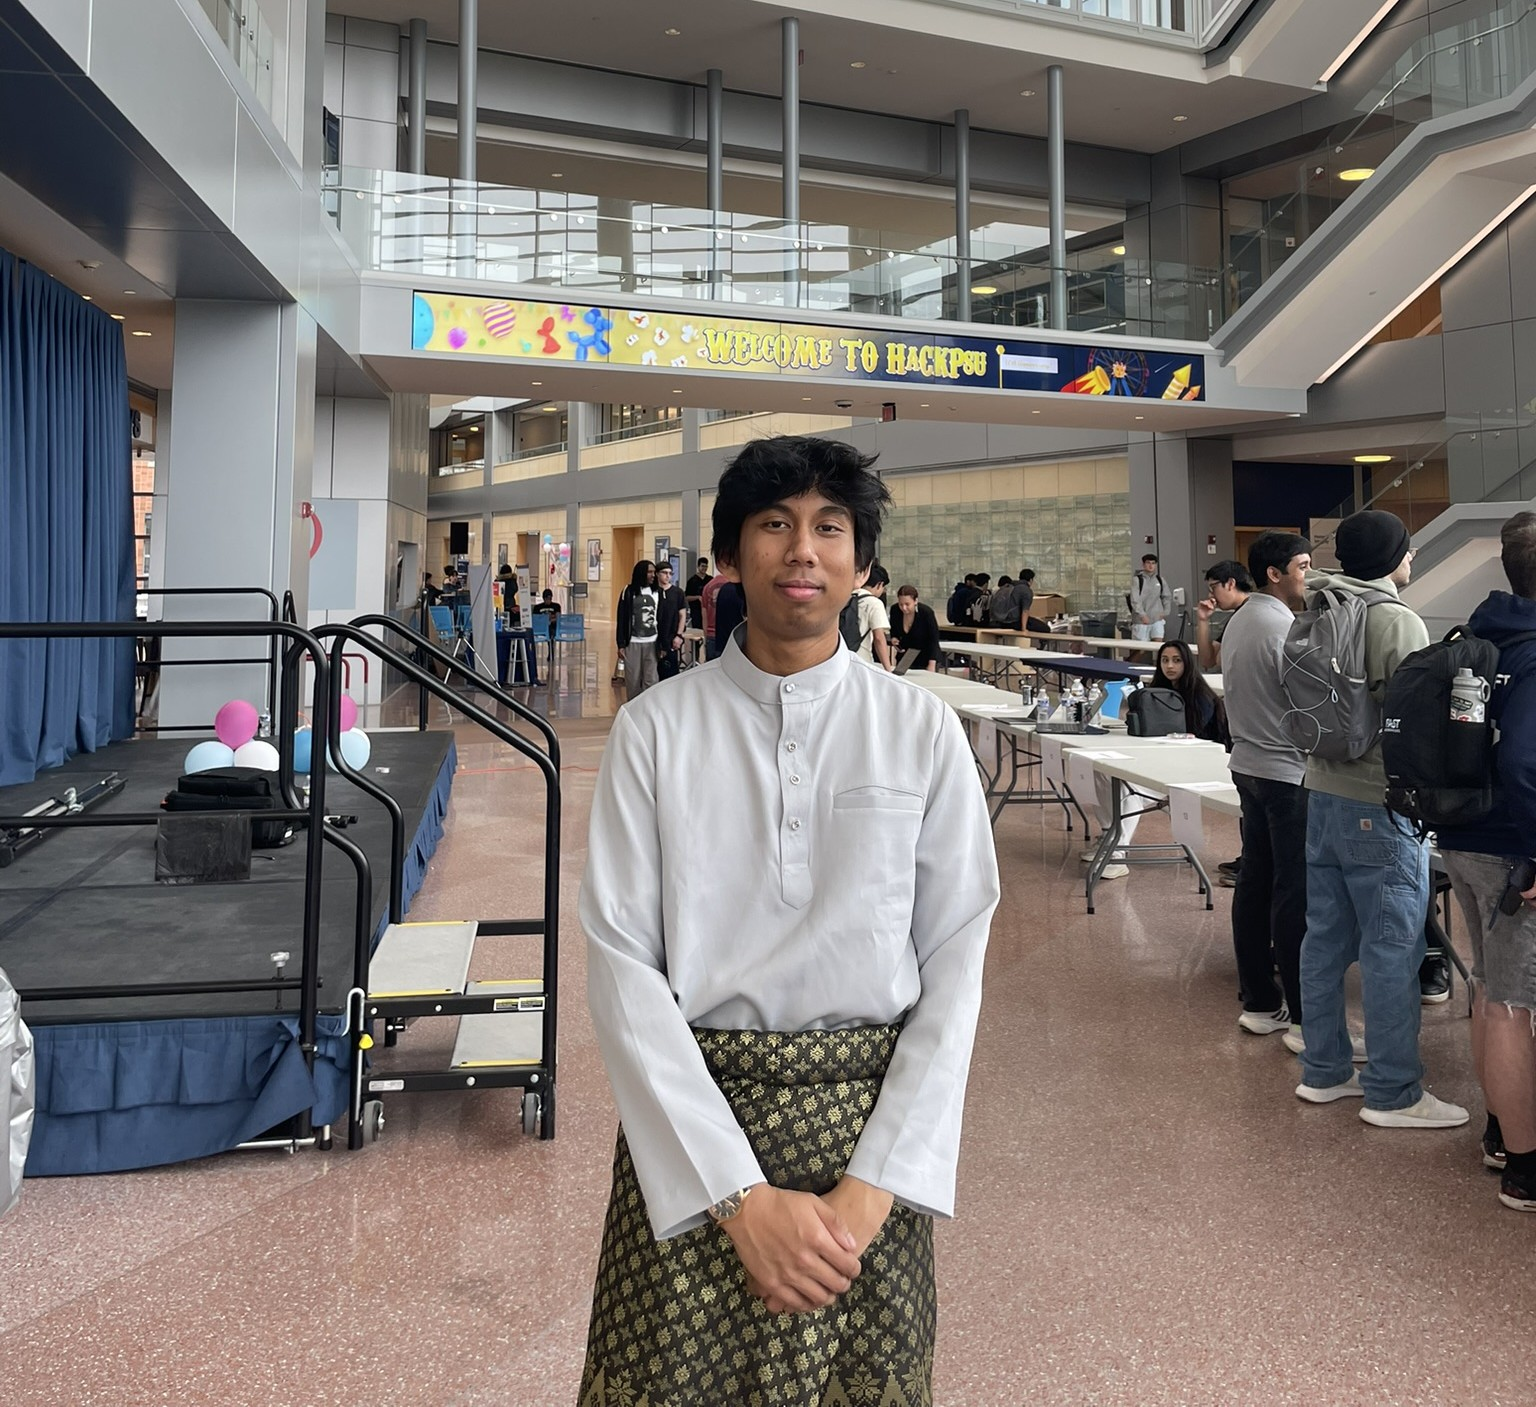
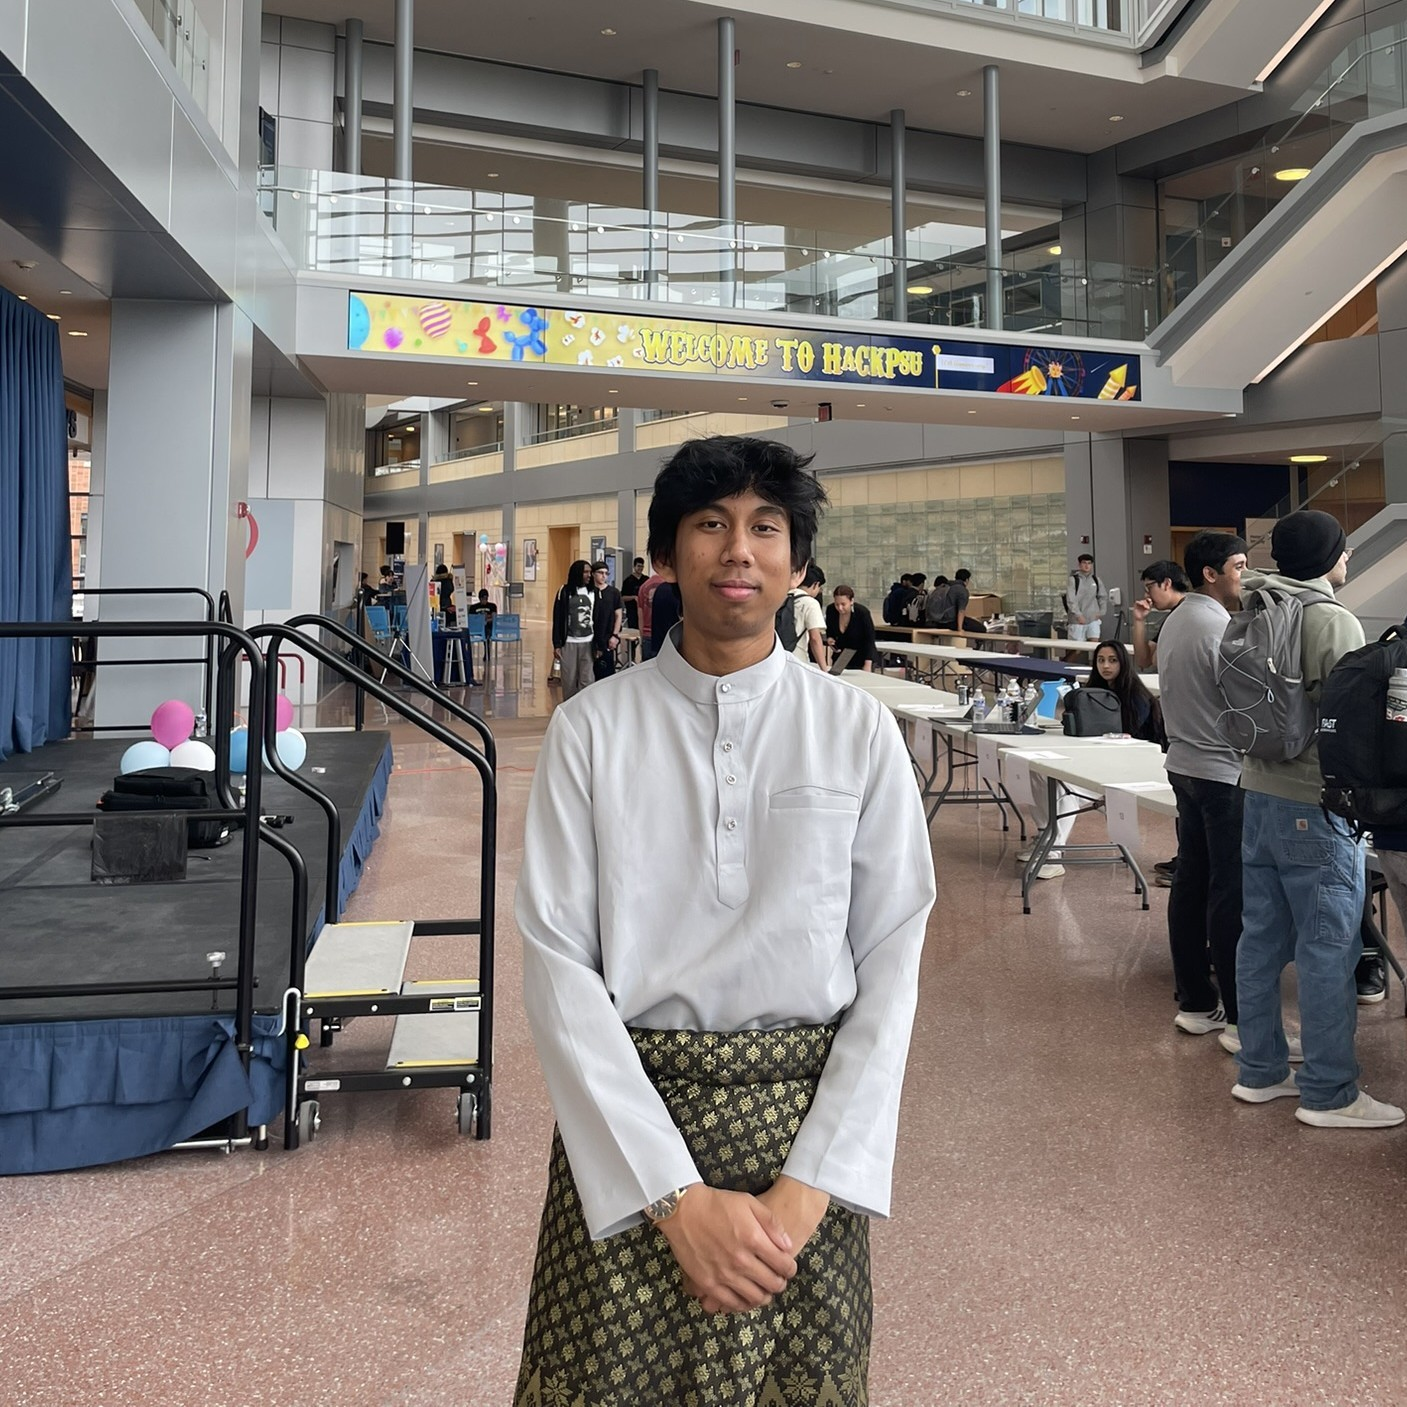
Update

diff --git a/css/style.css b/css/style.css
@@ -73,7 +73,7 @@ body {
 }
 
 .intro-image img {
-    width: clamp(220px, 24vw, 520px);
+    width: clamp(240px, 24vw, 520px);
     height: auto;
     max-height: 520px;
     object-fit: cover;
@@ -96,7 +96,7 @@ body {
 
 .intro-brief {
     font-family: "Inter", sans-serif;
-    font-size: clamp(1rem, 1.6vw, 1.7rem);
+    font-size: clamp(0.8rem, 1.6vw, 1.7rem);
     font-weight: bold;
     font-style: oblique;
     line-height: 1.6;
@@ -176,7 +176,7 @@ body {
     display: block;
 
     margin: 0;
-    width: clamp(260px, 23vw, 440px);
+    width: clamp(260px, 24vw, 460px);
     height: clamp(340px, 22.5vw, 380px);
 }
 
@@ -210,10 +210,11 @@ body {
 .project-block {
     display: flex;
     align-items: center;
-    justify-content: center;
+    
 
     width: 90%;
     padding-top: 2rem;
+    width: clamp(260px, 23vw, 460px);
 }
 
 .project-block h2 {
@@ -257,7 +258,7 @@ body {
     display: flex;
     flex-direction: column;
     color: rgb(245, 255, 235);
-    padding: 24px;
+    padding: 12px;
     justify-content: center;
     align-items: center;
     background: linear-gradient(rgb(7, 63, 12), rgb(5, 50, 10));
@@ -265,7 +266,7 @@ body {
 }
 
 .footer-container h2 {
-    font-size: clamp(1.2rem, 2vw, 1.5rem);
+    font-size: clamp(1rem, 1.9vw, 1.4rem);
 }
 
 .footer-separator {
@@ -277,7 +278,7 @@ body {
 
 .footer-divider {
     width: 1px;
-    height: clamp(40px, 13vw, 140px);
+    height: clamp(40px, 13vw, 120px);
     background-color: rgba(255, 255, 255, 0.25); 
 }
 
@@ -296,7 +297,7 @@ body {
 
 .footer-image {
     width: 100%;
-    max-width: 3rem;
+    max-width: 2.3rem;
     height: 100%;
     object-fit: contain;
 }
@@ -348,12 +349,9 @@ body {
 }
 
 .profile-detail-image {
-    flex: 0 1 500px;
     width: 100%;
-    max-width: 400px;
-    max-height: 400px;
-    border-radius: 20px;
-    display: block;
+    max-width: clamp(300px, 35vw, 350px);
+    height: auto;
 }
 
 
@@ -363,19 +361,19 @@ body {
 }
 
 .profile-intro h2 {
-    font-size: clamp(2rem, 4.2vw, 3.4rem);
-    font-style: oblique;
+    font-size: clamp(1.6rem, 3vw, 2.3rem);
     margin-top: 0;
     display: inline-block;
-    margin: 0 0 2.5rem 0;
     padding-bottom: 6px;
-    border-bottom: 3px solid rgba(5, 36, 12, 0.35);
-
+    background: linear-gradient(rgb(7, 63, 12), rgb(5, 50, 10));
+    color: rgb(245, 255, 235);
+    font-style: oblique;
+    padding: 1vw 2vw;
+    border-radius: 20px;
 }
 
 .profile-intro ul {
-    font-size: clamp(1rem, 1.6vw, 1.8rem);
-    line-height: 1.6;
+    font-size: clamp(1rem, 1.2vw, 1.3rem);
     margin-bottom: 0;
 }
 
@@ -435,37 +433,38 @@ body {
 .profile-education-block h2 {
     font-size: clamp(1.1rem, 2.1vw, 2.1rem);
     text-align: center;
+    border-bottom: 2px solid rgb(7, 63, 12);
 }
 
 .profile-education-school {
     display: flex;
     flex-direction: row;
     align-items: center;
+    justify-content: center;
 
     height: clamp(100px, 12vw, 180px);
+    width: clamp(300px, 24vw, 620px);
 }
 
 .profile-education-block img {
-    width: clamp(120px, 10vw, 180px);
+    width: clamp(100px, 9vw, 140px);
     height: 100%;
     object-fit: contain;
     margin: 0;
-    background-color: rgb(7, 63, 12);
-    padding: 0.5vw;
     border-radius: 10px;
 }
 
 .profile-education-school h2 {
-    font-size: clamp(1.2rem, 1.4vw, 1.6rem);
+    font-size: clamp(1.1rem, 1.2vw, 1.4rem);
     background-color: rgb(7, 63, 12);
     color: white;
     padding: 1vw;
-    border-radius: 0 10px 10px 0;
+    border-radius: 10px;
 }
 
 .profile-education-description {
     position: relative;
-    padding-top: 2vw;
+    padding-top: 1vw;
     font-size: clamp(1rem, 1.2vw, 1.4rem);
     text-align: center;
     margin: 0 2vw;
@@ -491,7 +490,7 @@ body {
 }
 
 .profile-detail-h {
-    font-size: clamp(1.8rem, 4.4vw, 4rem);
+    font-size: clamp(1.8rem, 4vw, 3.2rem);
     font-style: oblique;
 }
 
@@ -501,8 +500,7 @@ body {
 }
 
 .profile-detail-image {
-    flex: 0 1 500px;
-    width: clamp(200px, 40vw, 500px);
+    width: clamp(200px, 32vw, 360px);
     max-height: 480px;
     border-radius: 20px;
     display: block;
@@ -534,8 +532,8 @@ body {
     box-shadow: 0 6px 16px rgba(0, 0, 0, 0.10);
     margin-bottom: 40px;
 
-    width: clamp(480px, 25vw, 640px);
-    height: clamp(270px, 23vw, 400px);
+    width: clamp(360px, 32vw, 500px);
+    height: auto;
 }
 
 .profile-interest-block h2 {
@@ -549,15 +547,15 @@ body {
 
 .profile-interest-description {
     position: relative;
-    padding-top: 1vw;
     font-size: clamp(1rem, 1.3vw, 1.6rem);
     text-align: center;
-    margin: 0 2vw;
+    margin: 0 2vw 2vw 2vw;
+    margin-bottom: 2vw;
     line-height: 1.4;
 }
 
 .profile-knowledge-inner {
-  max-width: 1500px;
+  max-width: 1100px;
   width: 100%;
   margin: 0 auto;
   padding: 0 clamp(16px, 5vw, 60px);
@@ -587,7 +585,7 @@ body {
     padding: 0 2vw;
 
     width: 100%;
-    max-width: 1500px;
+    max-width: 1100px;
 
     margin: 0 auto;
     margin-bottom: 2vw;
@@ -828,13 +826,15 @@ body {
 .facts dt{
   font-weight: 800;
   opacity: 0.85;
-  font-size: clamp(1rem, 1.4vw, 1.6rem);
+  font-size: clamp(1rem, 1.2vw, 1.4rem);
+  margin-left: 10px;
 }
 
 .facts dd{
   margin: 0;
   opacity: 0.95;
-  font-size: clamp(1rem, 1.4vw, 1.6rem);
+  font-size: clamp(1rem, 1.2vw, 1.4rem);
+
 }
 
 .intro-text p,

diff --git a/index.html b/index.html
@@ -30,11 +30,11 @@
                 </div>
 
                 <div class="intro-image">
-                    <img src="assets/images/profile.jpeg" alt="Amir Afiq">
+                    <img src="assets/images/profile2.jpeg" alt="Amir Afiq">
                 </div>
                 <div class="intro-brief-container">
                     <p class="intro-brief">
-                        I am a Penn State Computer Science student focused on cybersecurity and AI, with a strong 
+                        I am a Penn State Computer Science graduate focused on cybersecurity and AI, with a strong 
                         interest in building practical, impactful software projects.
                     </p>
                     <p class="intro-brief-seek">Seeking full-time opportunities | Available immediately.</p>
@@ -244,9 +244,6 @@
                         </a>
                     </div>
                 </div>
-                <p class="footer-text">
-                    © 2024 Amir Afiq. All rights reserved.
-                </p>
             </div>
         </section>
     </main>

diff --git a/profile.html b/profile.html
@@ -18,7 +18,7 @@
     </header>
 
     <div class="profile-detail-container">
-        <img src="../assets/images/profile2.jpg" class="profile-detail-image">
+        <img src="../assets/images/profile.jpeg" class="profile-detail-image">
         <div class="profile-detail-card">
             <div class="profile-intro">
                 <h2 class="profile-detail-text">
@@ -32,7 +32,7 @@
                     <div><dt>Major</dt><dd>Computer Science B.S.</dd></div>
                     <div><dt>Interests</dt><dd>Cybersecurity and Artificial Intelligence</dd></div>
                     <div><dt>Hobbies</dt><dd>Running, Hiking, Traveling</dd></div>
-                    </dl>
+                </dl>
 
             </div>
         </div>
@@ -288,9 +288,6 @@
                 </a>
             </div>
         </div>
-        <p class="footer-text">
-            © 2024 Amir Afiq. All rights reserved.
-        </p>
     </div>
 
 </body>

diff --git a/projects/asl.html b/projects/asl.html
@@ -106,9 +106,6 @@
                 </a>
             </div>
         </div>
-        <p class="footer-text">
-            © 2024 Amir Afiq. All rights reserved.
-        </p>
     </div>
 
 </body>

diff --git a/projects/blackjack.html b/projects/blackjack.html
@@ -107,9 +107,6 @@
                 </a>
             </div>
         </div>
-        <p class="footer-text">
-            © 2024 Amir Afiq. All rights reserved.
-        </p>
     </div>
 
 </body>
